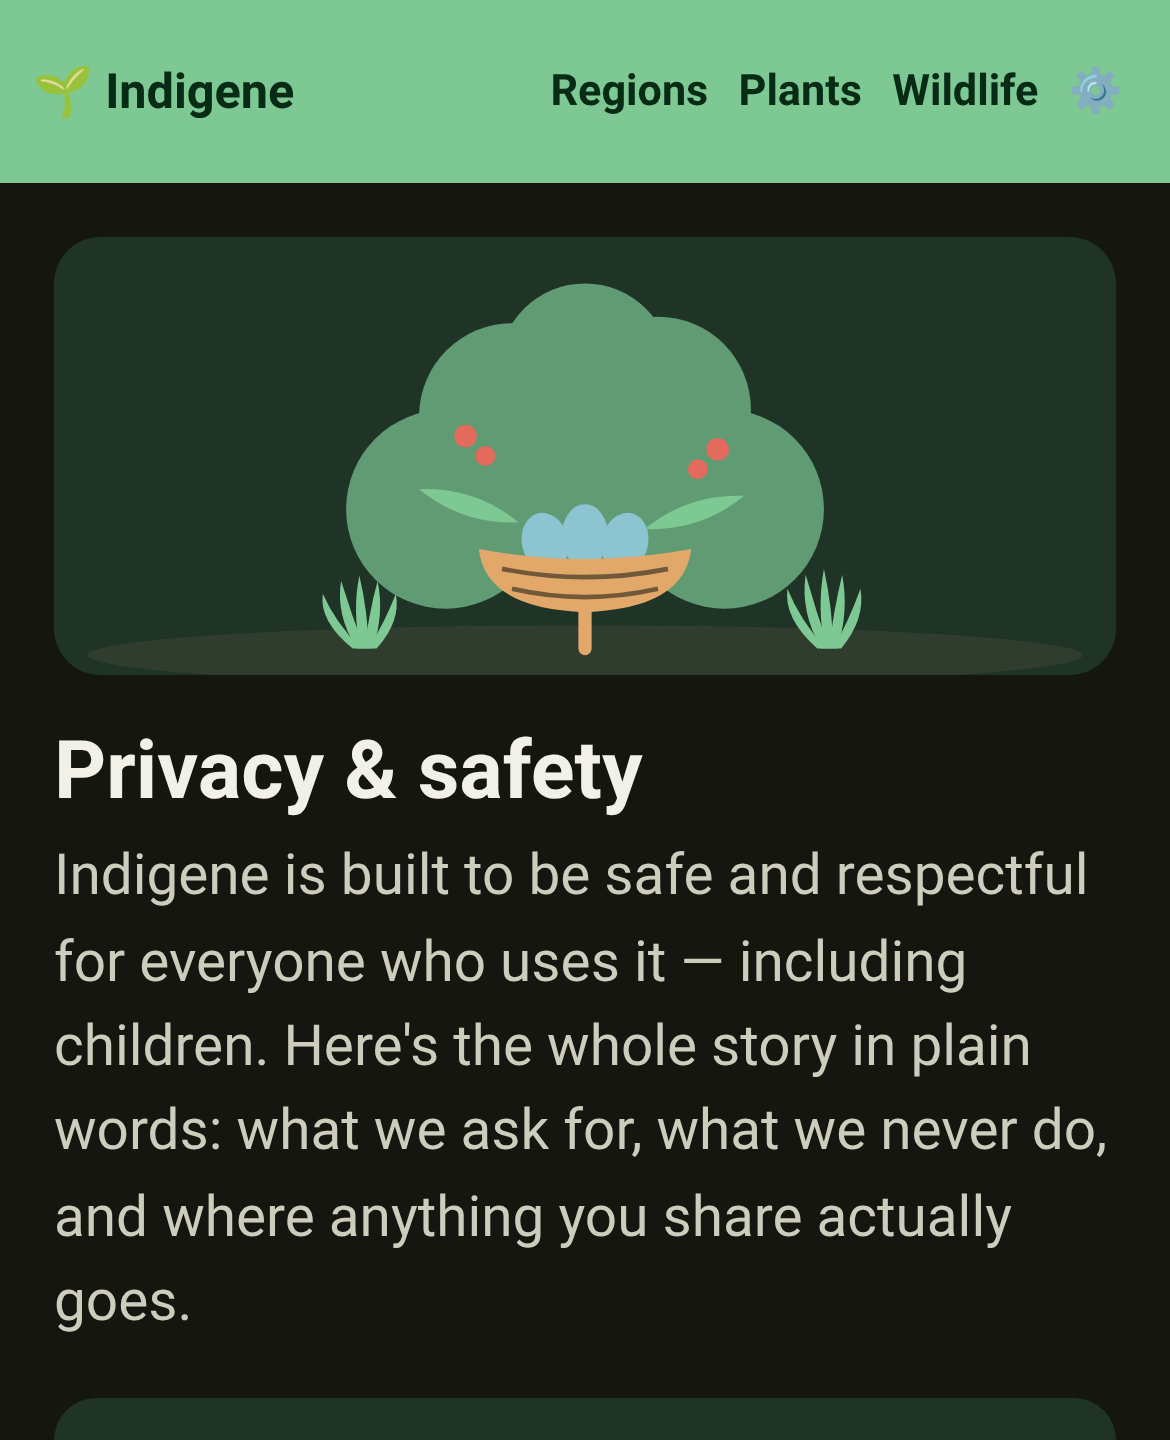
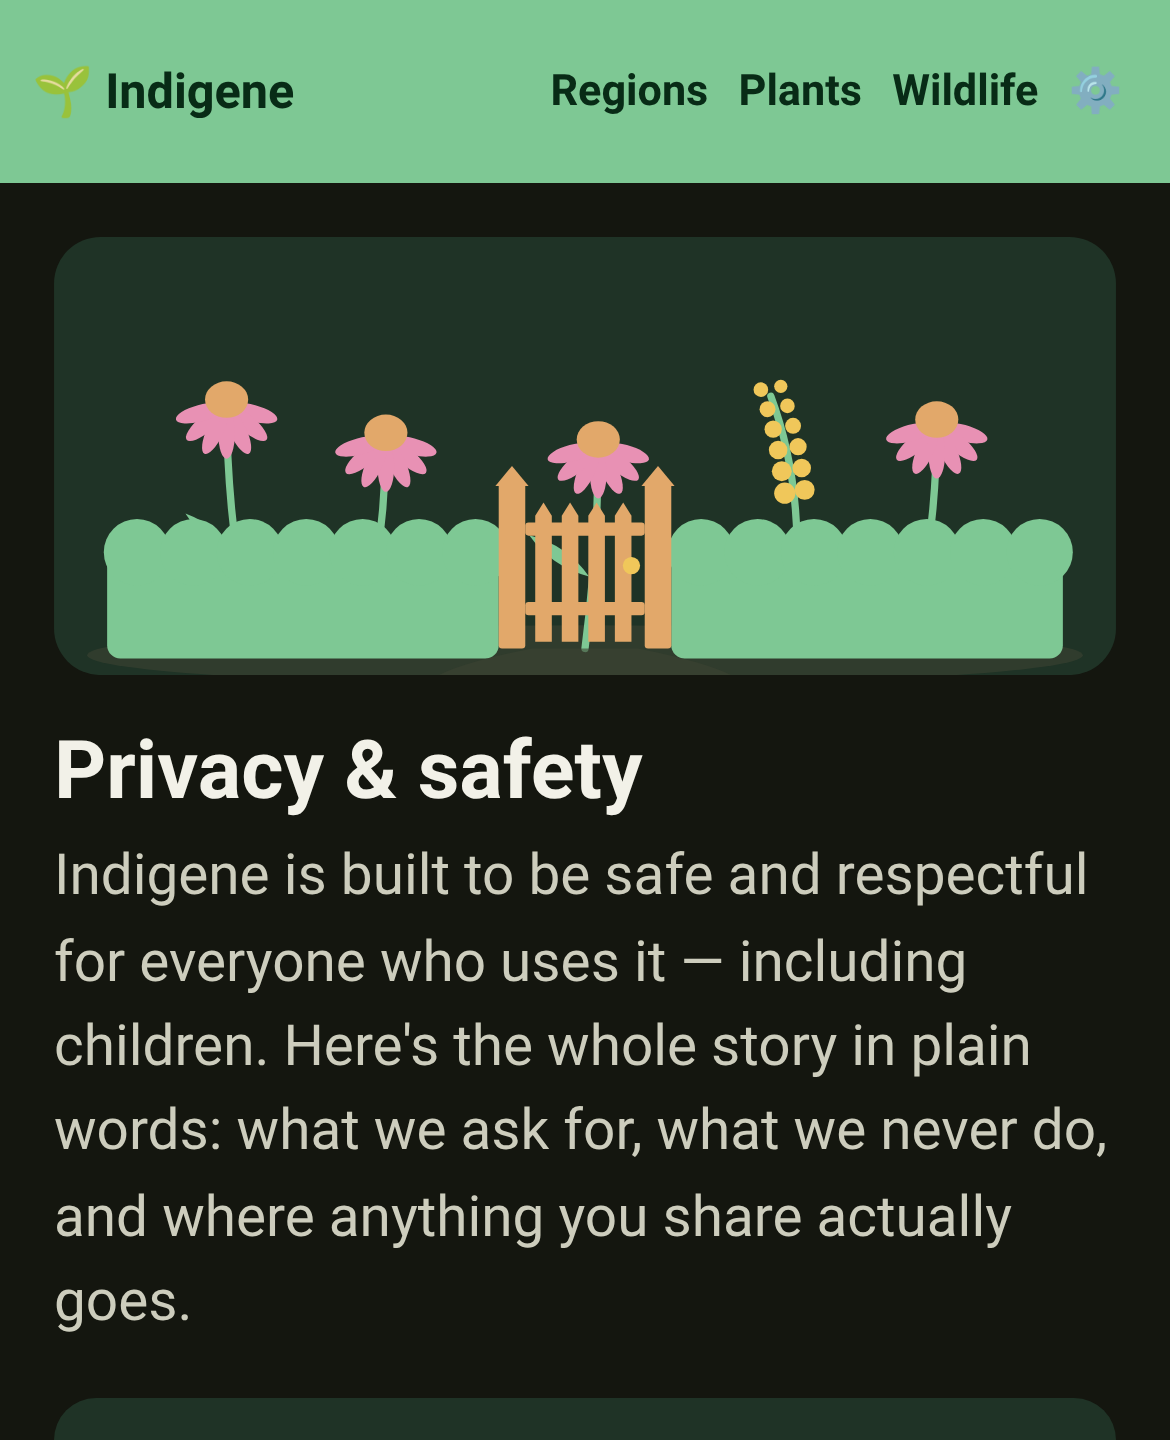
Privacy drawing: a latched garden gate in a hedge, not a nest
The nest in a shrub read as a face: berries for eyes, the nest a mouth
with the eggs for teeth. A gate in a low hedge, with the garden behind
it, says the same thing without a creature in it.

Claude-Session: https://claude.ai/code/session_016ADprjBAscx4Crwm6zYrUt

Changed region(s): [[0.0923, 0.1875, 0.9231, 0.4688]]

diff --git a/changelog.d/claude-page-drawings.md b/changelog.d/claude-page-drawings.md
@@ -1,4 +1,4 @@
 ### Added
 
-- [Further reading](https://indigene.app/reading), [What's new](https://indigene.app/release-notes/), the [Guide](https://indigene.app/guide/), Privacy, Sources, About, the Native page and Homegrown National Park each open with a small drawing: a stack of books, a fern unrolling, a signpost, a nest of eggs, and more.
+- [Further reading](https://indigene.app/reading), [What's new](https://indigene.app/release-notes/), the [Guide](https://indigene.app/guide/), Privacy, Sources, About, the Native page and Homegrown National Park each open with a small drawing: a stack of books, a fern unrolling, a signpost, a latched garden gate, and more.
 - Internal: the drawings are SVG strings in `src/components/page-art-svg.mjs`, shared with `build-release-notes.mjs` and `build-guide.mjs`; `page-art.test.ts` keeps their palette in `styles.css` and the static pages' copy alike.
